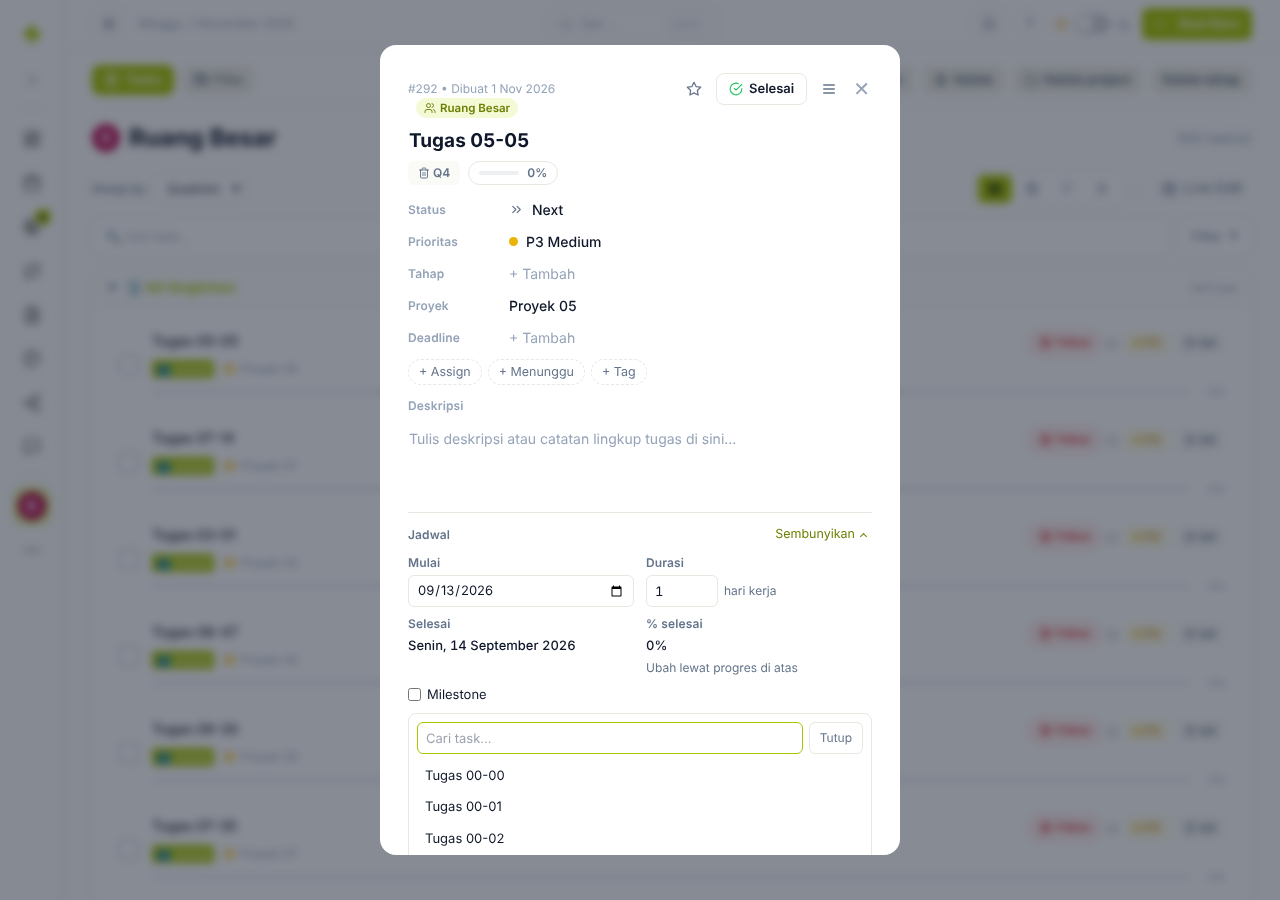
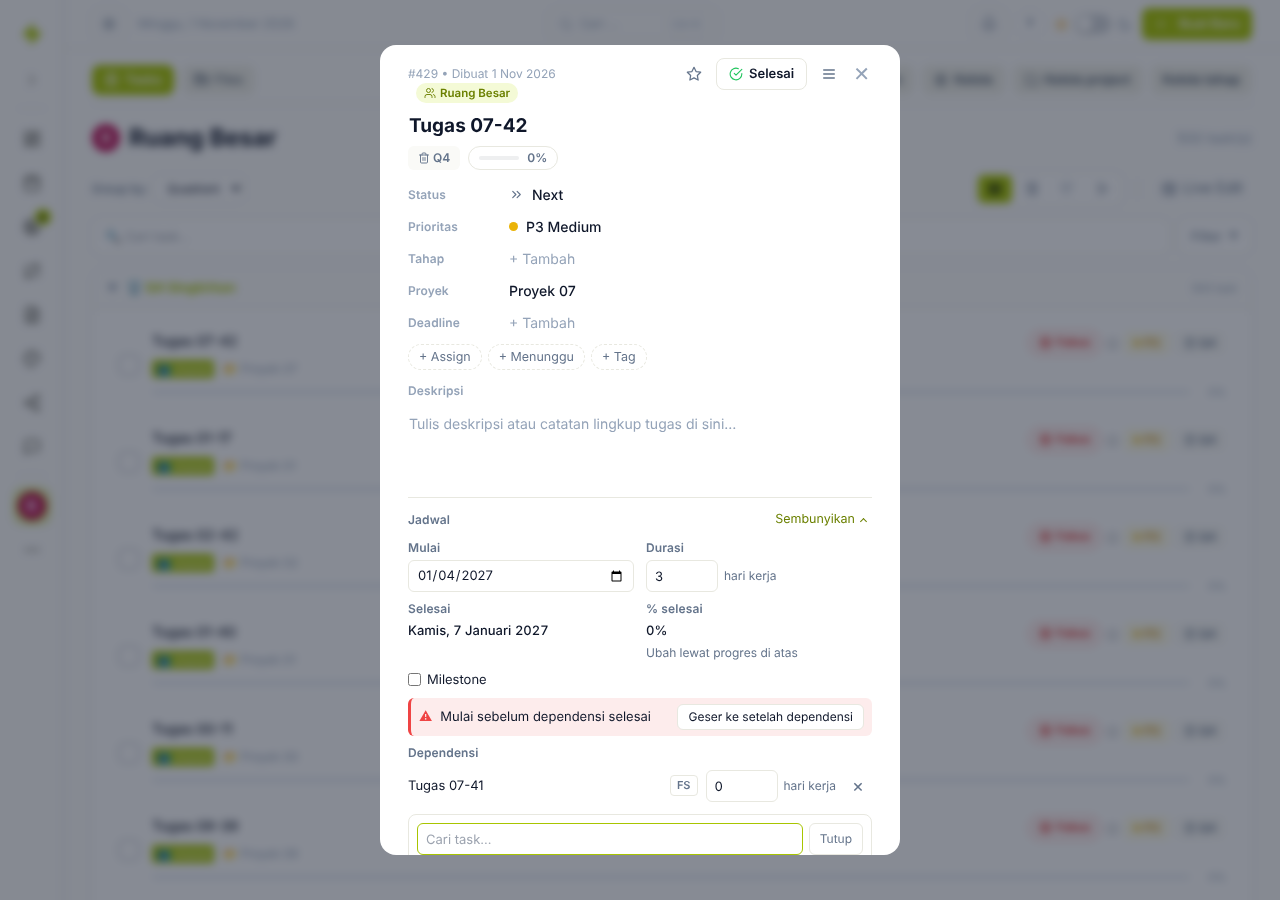
docs(agents): handover PR 1b Timeline
Catatan implementasi PR 1b di spec Timeline (deviasi dan keputusan ledger;
§8.1 diperbaiki: lima part, tanpa window.__tl), entri teratas CURRENT_STATE
(PR draft, setelah #120, deploy statis tanpa restart, verifikasi pasca-deploy,
rollback, risiko terbuka), entri SESSION_LOG, dan tangkapan layar E2E 1b
dari verifikasi akhir.

Claude-Session: https://claude.ai/code/session_017DL2c7R2bzyzTD7wppPo72

diff --git a/docs/superpowers/specs/2026-10-31-plugin-fase1-timeline-design.md b/docs/superpowers/specs/2026-10-31-plugin-fase1-timeline-design.md
@@ -112,6 +112,33 @@ Deviasi dari teks K1–K21 dan §4–§7 yang diputuskan saat rencana/implementa
 - **Tanggal `whatsnew` v492 diatur saat merge** (kini 2026-11-01, entri `silent` sehingga tidak terlihat pengguna).
 - **Sisa (diketahui, tidak diubah):** push ack di antara halaman terakhir tarik penuh dan sapu dapat membuat record berkedip sebentar (kembali di delta berikut); jika purge mendarat di antara pembacaan `MAX(seq)` dan halaman, satu `reset` ekstra lalu pulih sendiri.
 
+### Catatan implementasi PR 1b (2026-11-01)
+
+Timeline dasar selesai di branch `claude/plugin-timeline` (ditumpuk di atas `claude/plugin-records`, PR #120; baru boleh di-merge setelah #120). Rencana: `docs/superpowers/plans/2026-11-01-plugin-fase1-pr-1b-timeline.md` (R1–R26), ADR-042, SW `taskflow-v493-timeline` dengan whatsnew non-silent (teks disetujui pemilik, U4). Keputusan UI pemilik U1–U4 semuanya opsi (a): kalender kerja di popover toolbar, task tanpa jadwal tetap di posisi WBS (klik untuk menjadwalkan), sakelar Gantt/Daftar di HP, `defaultEnabled: false`. `index.html` hanya berubah dua baris string versi SW (46.116 baris); `app.css`, `static/offline`, server, dan `plugin_loader` tidak disentuh. D1–D8 terpenuhi oleh 1a-2 (D5 dengan keputusan di bawah; D7 lewat kode `TOO_LARGE`).
+
+**Isi.** Lima part murni tanpa global (`holidays-id.js`, `calendar.js`, `schedule.js`, `layout.js`, `drag.js`) + `plugin.jsx` (view Gantt, seksi "Jadwal", popover Kalender kerja, Daftar fallback HP). Tanggal internal = bilangan hari UTC (tanpa `Date` lokal di part). Libur nasional + cuti bersama 2025–2027 dibundel dan dicek silang dengan SKB. Kalender kerja disimpan sebagai record `calendar` (`cal@user` dan `cal@list:<id>` deterministik, dipakai bersama anggota workspace). Drag/resize/link/Alt+panah memakai satu tulisan per lepas, Urungkan lewat aksi `api.ui.toast`.
+
+**Deviasi dan keputusan selama implementasi**
+
+- **Rentang tampilan dijepit ke hari ini ±1830 hari** (deviasi R22): tanggal salah ketik jauh tidak membuat grafik tak terbentuk. Baris yang seluruhnya di luar rentang bertanda `outOfRange` tanpa bar; `missingYears` dihitung dari rentang terjepit (bisa memuat ~8 tahun).
+- **`MAX_ITER` `calendar.js` 3650 → 10000** (999 hari kerja pada pekan 1 hari butuh ~7000 langkah); pemanggil (`TLSched`, `TLLayout`) menangkap `TL_CAL_LOOP` dan memperlakukannya sebagai tanpa bar.
+- **Token `--plg-timeline-danger: var(--danger, var(--pomodoro))`** (deviasi R12): token `--danger` tidak ada di `app.css`, sehingga warna terlambat = merah pomodoro di semua palet.
+- **Tinggi wadah juga dikurangi tinggi legenda** (deviasi R11) agar legenda tetap terlihat.
+- **`normalize` kalender menjaga entri `off`/`work` tanpa `n` sebagai `n: ""`** (lebih longgar dari R4 harfiah): tanggal tanpa nama dari anggota lain tidak hilang; UI menampilkan "(tanpa nama)".
+- **`calendarStore.save` menulis kalender ternormalisasi dan membuang kunci tak dikenal** (tipe `Calendar` tertutup); field masa depan harus menaikkan `v` agar tidak terhapus simpanan klien lama.
+- **`sanitizePatch` menerima `deps: null` (= hapus kunci)** supaya Urungkan (R14) bisa mengembalikan kunci yang dulu tidak ada lewat sanitizer yang sama.
+- **Bentuk komit link `{link: {pred, succ}}` (kunci baris)**, bukan `{dep: {from, to}}` seperti teks R13; internal, tanpa dampak.
+- **Dependensi yang sudah ada ditulis ulang apa adanya saat menambah link** (`sanitizeDeps` menolak seluruh array bila satu item rusak sehingga memblokir link; tidak ada data buruk baru). Dependensi ganda (tipe apa pun, alias-aware) = toast baru "Dependensi ini sudah ada"; diri sendiri/di luar scope/di luar rentang diam saja. Kebijakan sama di Gantt dan seksi.
+- **`checkLink(api, list, pred, succ, readRaw)` memakai daftar task lengkap**, satu-satunya pemanggil `TLSched.canLink`, dipakai Gantt dan seksi: siklus dan ringkasan tidak lagi bisa lolos karena filter panel menyembunyikan task. Drag/resize/Alt+panah/klik-jadwalkan pada induk yang anaknya tersembunyi filter ditolak saat tulis (toast "Jadwal task ini mengikuti subtask-nya"); bila daftar penuh gagal dimuat tidak ada tulisan ("Jadwal gagal disimpan"). Ringkasan tidak bisa digeser/diubah di 1b.
+- **Seksi: Mulai dijepret ke hari kerja berikutnya bila durasi ≥ 1**; milestone (durasi 0) tidak pernah dijepret, baik lewat seksi maupun seret/Alt+panah (menyatukan perilaku seksi dengan seret). Mematikan milestone memulihkan durasi terakhir dan menjepret mulai. Mulai di seksi = satu tulisan per edit (debounce 700 ms/blur/Enter), dengan flush saat seksi pindah task.
+- **Jendela baris 8-baris** (pasca-E2E): jendela virtual bergeser per 8 baris, panah digambar dalam koordinat grafik tetap di dalam `<g transform>`; long task gulir vertikal 20,5 → 7,5, style recalc 1076 → 174 ms; DOM maks 716 elemen untuk 500 task.
+- **Definisi anggaran render (R24):** 150 ms pada CPU 4× diukur sebagai render Timeline sendiri (pasang view → Gantt pertama tergambar, median), bukan pembongkaran daftar host. Ganti view dari Normal 500 baris (~209–225 ms DOM) dan buka-ulang terpilih (~162 ms) dicatat sebagai info.
+- **Kalender workspace dikunci sampai ada record lokal (`exists`) atau tarik pertama sukses (`pulled`)** (amandemen D5): tanpa ini edit sebelum sinkron pertama menimpa kalender bersama lewat LWW. Karena `sync.done`/`onChange source:"sync"` juga terpicu oleh gagal-sinkron dan ack push (fail-open), **sinyal host `pulled` ditambahkan di #120** (`0418a57e`: `pullAll` memancarkan `{pluginId, entity: null, ids: [], source: "sync", pulled: true}` sekali per plugin setelah tarik record tuntas; aditif, `apiVersion` tetap 1). Akibatnya perangkat baru melihat kalender bawaan (dan edit terkunci) sampai sinkron pertama berhasil (~30 dtk).
+- **Lipatan nama project = `projectNameFold` host** (sebelumnya berbeda); satu pembantu id kalender; input tanggal popover mengikuti `color-scheme` gelap; toast "kalender hilang" kalah LWW dari seksi dan hanya tampil saat Gantt terpasang.
+- **Teks UI tambahan** di luar daftar spec: "Kalender gagal disimpan", "Kalender gagal dimuat", "Pilih tanggal dulu", "Tanggal ini sudah ada", "Daftar sudah penuh (366 tanggal)", "(tanpa nama)", "Tutup", "Tambah", "Dependensi ini sudah ada". Satu tanggal tidak bisa sekaligus libur tambahan dan hari kerja pengganti; hari kerja terakhir dalam sepekan tidak bisa dimatikan. Baris ringkasan tetap tampil di Daftar HP.
+
+**Ditunda (minor, tanpa perubahan):** toast host memakai satu timer bersama (tindak lanjut di host); rincian lain di ledger PR (`ARIA bar di luar role=row`, radiogroup tanpa navigasi panah, label bar tumpang tindih panah, Urungkan setelah edit eksternal menulis nilai lama dalam jendela 6 dtk, geometri kotak ditangkap saat `barDown`). Verifikasi sentuh nyata (tekan lama + gulir vertikal di HP fisik) belum dilakukan; emulator tidak membedakan.
+
 ## 3. Ruang lingkup dan pembagian PR
 
 | PR | Isi | Server | IndexedDB | Terlihat pengguna |
@@ -274,10 +301,10 @@ Task tidak ditemukan → reject `Task not found`; task tanpa hak tulis tidak mun
                  "taskDetail.sections": [{"id": "schedule", "label": "Jadwal", "order": 10}]},
  "records": {"calendar": {"conflict": "lww", "maxBytes": 16384}},
  "taskExt": {"keys": ["start", "duration", "deps"]},
- "parts": ["holidays-id.js", "calendar.js", "schedule.js", "layout.js"]}
+ "parts": ["holidays-id.js", "calendar.js", "schedule.js", "layout.js", "drag.js"]}
 ```
 
-`parts` adalah modul murni (tanpa React/DOM) yang menulis ke `window.__tl` dan diekspor untuk tes Node; `plugin.jsx` berisi UI. Perkiraan `plugin.js` 70–100 KB (tanpa minify), precache, dieksekusi hanya saat view/seksi dibuka.
+`parts` (lima berkas) adalah modul murni (tanpa React/DOM) berbentuk `const TLxxx = (function (deps) {…})(…)` tanpa global (R2) dan diekspor lewat `module.exports` untuk tes Node; `plugin.jsx` berisi UI. Perkiraan `plugin.js` 70–100 KB (tanpa minify), precache, dieksekusi hanya saat view/seksi dibuka.
 
 ### 8.2 Data
 

diff --git a/.agents/CURRENT_STATE.md b/.agents/CURRENT_STATE.md
@@ -1,3 +1,15 @@
+## 🟡 Plugin Fase 1 — PR 1b: Timeline dasar — claude/plugin-timeline — 2026-11-01 (Claude) — PR DRAFT, menunggu "merge dan deploy" (**baru boleh di-merge setelah #120**)
+- **Spec / plan:** `docs/superpowers/specs/2026-10-31-plugin-fase1-timeline-design.md` (+ "Catatan implementasi PR 1b", §8.1 dirapikan: lima part tanpa `window.__tl`), `docs/superpowers/plans/2026-11-01-plugin-fase1-pr-1b-timeline.md` (R1-R26); ADR-042; README plugin (§8 Timeline, class `.is-*`, `[data-theme="dark"]`). Keputusan pemilik U1-U4 semuanya opsi (a), teks whatsnew disetujui.
+- **Isi:** plugin `timeline` (`static/plugins/timeline/`, `defaultEnabled: false`): view Gantt "Timeline" di halaman project dan workspace (Manual: seret/ubah durasi/Alt+panah, dependensi Selesai-ke-Mulai (FS) dengan panah, milestone, tenggat, ringkasan induk, Urungkan lewat toast, zoom Hari/Minggu/Bulan, sakelar Gantt/Daftar di HP), seksi "Jadwal" di detail task (Mulai, Durasi, milestone, dependensi), popover "Kalender kerja" (hari kerja, libur nasional + cuti bersama 2025-2027 dibundel, libur tambahan, hari kerja pengganti; workspace = record `calendar` bersama anggota). Part murni: `holidays-id.js`, `calendar.js`, `schedule.js`, `layout.js`, `drag.js`. Memakai `api.taskExt` (1a-1) + `api.records` (1a-2). `index.html` hanya 2 baris versi (46.116); `app.css`, `static/offline`, server, `plugin_loader` tidak berubah. Branch juga memuat sinyal `pulled` yang ditambahkan ke #120 (0418a57e).
+- **Rilis:** SW `taskflow-v493-timeline`, whatsnew **non-silent** ("Timeline: lihat jadwal project sebagai Gantt", tanggal 2026-11-01). **Saat merge cek ulang** penomoran v492/v493 (PROTOCOL §4 butir 4 bila `main` maju) dan perbarui tanggal entri v492 + v493 di `static/whatsnew.json` ke hari merge; `app.css?v=382` tetap.
+- **Deploy:** hanya berkas statis (workflow `git reset` + `node compile.js`), **tanpa restart** untuk PR ini (tidak ada perubahan server; D6: server membaca ulang `index.json` sebelum 404). Tetapi #120 sendiri masih butuh `sudo systemctl restart taskflow-web taskflow` saat ia di-deploy; urutan: merge #120, deploy + restart, baru 1b.
+- **Verifikasi pasca-deploy:** Pengaturan › Plugin menampilkan Timeline (OFF); nyalakan -> tombol "Timeline" muncul di halaman project/workspace dan seksi "Jadwal" di detail task; `GET /api/plugins/timeline/records` (token) -> 200; Pengaturan menampilkan SW v493; modal "Apa yang baru" tampil sekali setelah pembaruan.
+- **Rollback:** matikan plugin dari Pengaturan › Plugin (tanpa deploy; data `tasks.ext` dan record `calendar` tetap), atau revert sebagai rilis baru (SW bump + whatsnew `silent`); data tetap tersimpan dan terbaca lagi saat plugin dinyalakan.
+- **Risiko terbuka untuk Bapak:** (1) cek di HP sungguhan: seret dengan tekan lama dan kelancaran gulir vertikal (emulator tidak membedakan sentuh; `touchmove` non-passive bisa menyentak); (2) perangkat baru: kalender workspace tampil bawaan dan **tidak bisa diedit sampai tarik pertama sukses** (~30 dtk, D5) karena sinkron record baru jalan di sinkron reguler berikutnya; (3) kinerja: render Timeline sendiri 500 task CPU 4x median 112-141 ms (anggaran 150), ganti view dari Normal 500 baris 209-225 ms (info, pembongkaran daftar host).
+- **Tindak lanjut:** data libur SKB 2028 begitu terbit (~Sep 2027, `holidays-id.js` + `rentang tahun` di UI); **PR 1c** (auto scheduling/CPM, baseline); Toast host memakai satu timer bersama (perbaikan di host); minor yang ditunda (daftar di ledger PR: ARIA bar di luar `role=row`, radiogroup tanpa panah, Urungkan setelah edit eksternal, geometri `barDown` basi, `healStranded` dll dari #120).
+- **Verifikasi (HEAD b9208e5b + handover):** pytest 1422 passed, 1 skipped; `npm test` 4059 tes, 4058 lulus, 1 gagal pra-ada (`draw_local_reactive`); `tests/build-plugins.test.js` 26/26; PROTOCOL §4 butir 5 (`test_whatsnew`, `test_sw_precache_node`, `test_app_update_node`) 33 passed; `check_inline_scripts` OK (6); `compile.js` dua kali tanpa diff; `git diff origin/claude/plugin-records` pada `static/index.html` hanya 2 baris versi, `app.css` dan `static/offline` kosong; simulasi CI tanpa `node_modules` 1420 passed, 3 skipped. E2E `e2e_plugin_fase1_1b.py` 61/61; regresi 1a-2 49/49, 1a-1 45/45, 0b 36/36, 0a 20/20 (`TZ=Asia/Jakarta`).
+- **Review:** per tugas bersih (T1-T13); review akhir (opus, seluruh branch): tanpa Critical; Important #1 (cek siklus/ringkasan atas daftar tersaring) dan #2 (kalender workspace tertimpa sebelum sinkron pertama, diselesaikan dengan sinyal `pulled` di #120) diperbaiki, minor lain diperbaiki atau ditunda (di atas).
+
 ## 🟡 Plugin Fase 1 — PR 1a-2: IndexedDB v7 + plugin_records + api.records — claude/plugin-records — 2026-11-01 (Claude) — PR DRAFT #120, menunggu "merge dan deploy" (tidak sebelum 2026-11-04)
 - **Spec / plan:** `docs/superpowers/specs/2026-10-31-plugin-fase1-timeline-design.md` (+ "Catatan implementasi PR 1a-2"), `docs/superpowers/plans/2026-11-01-plugin-fase1-pr-1a-2.md` (R1–R25); ADR-041; README plugin §records.
 - **Server:** `plugin_records.py` (tabel `plugin_records` + `plugin_records_meta`, `GET/POST /api/plugins/<id>/records`, `seq` per tulis diterima di dalam `write_tx`, LWW, kursor `1.<seq>.<fp>` + `reset`, purge tombstone 30 hari, `next_seq`/kursor memperhitungkan `purged_seq`), `plugin_loader` (`records_decl`, `/records` dicadangkan host, skema di `plugin_loader.migrate`), `webapp.py` (router + ekspor `plugin_records.json`).

diff --git a/.agents/SESSION_LOG.md b/.agents/SESSION_LOG.md
@@ -4323,3 +4323,9 @@
 - **Changes:** plugin_records.py + plugin_loader/webapp (rute `/records`, ekspor); db.js v7, plugin_sync.js, cabang syncpush/syncpull, plugin-runtime `api.records`, compile.js `validateRecords`; SW v492 silent; README, ADR-041, catatan implementasi spec; E2E 49/49. Subagent implementer per tugas + reviewer terpisah + review akhir (opus) dan satu gelombang perbaikan (onChange dilepas saat nonaktif, SCOPE_IMMUTABLE, purged_seq, forbid() kosongkan kursor, kursor ke MAX(seq) global).
 - **Files Touch:** plugin_records.py, plugin_loader.py, webapp.py, compile.js, static/offline/{db,plugin_sync,syncpush,syncpull}.js, static/plugin-runtime.js, static/index.html, static/sw.js, static/whatsnew.json, tests/** (baru + R20 + versi), tests/fixtures/plugin_records_vectors.json, tests/fixtures/plugins/demo-records/, docs/**, temporary_files/e2e_plugin_fase1_1a2*, .agents/*
 - **Status:** Needs Review (PR draft; tunggu "merge dan deploy", tidak sebelum 2026-11-04 dan setelah rencana 1b direview). pytest 1417/1 skip; npm 3828/3829 (pra-ada). Deploy butuh restart manual taskflow-web + taskflow.
+
+## [2026-11-01 10:30] - Claude (Opus 5.5)
+- **Task:** Plugin Fase 1 PR 1b: Timeline dasar (Gantt Manual, hari kerja + libur nasional 2025-2027, kalender kerja bersama, seksi Jadwal); verifikasi akhir + handover.
+- **Changes:** plugin `static/plugins/timeline/` (part murni `holidays-id.js`/`calendar.js`/`schedule.js`/`layout.js`/`drag.js`, `plugin.jsx`, `style.css`), `plugin-runtime` toast action (Urungkan), `compile.js` parts; SW v493 + whatsnew non-silent; README, ADR-042, catatan implementasi PR 1b di spec; E2E 61/61. Subagent implementer per tugas (T1-T13) + reviewer terpisah, review akhir (opus) dengan gelombang perbaikan (cek siklus atas daftar lengkap, kunci kalender workspace sampai `pulled`, milestone tanpa jepret) dan sinyal host `pulled` ditambahkan ke #120.
+- **Files Touch:** static/plugins/timeline/*, static/plugins/index.json, static/plugin-runtime.js, static/index.html (2 baris versi), static/sw.js, static/whatsnew.json, compile.js, tests/offline/timeline_*.test.js + tes plugin/versi, docs/plugins/README.md, docs/superpowers/{specs,plans}/*, temporary_files/e2e_plugin_fase1_1b*, .agents/*
+- **Status:** Needs Review (PR draft; tunggu "merge dan deploy", baru setelah #120). pytest 1422/1 skip; npm 4058/4059 (pra-ada `draw_local_reactive`). Deploy = berkas statis, tanpa restart untuk PR ini.
